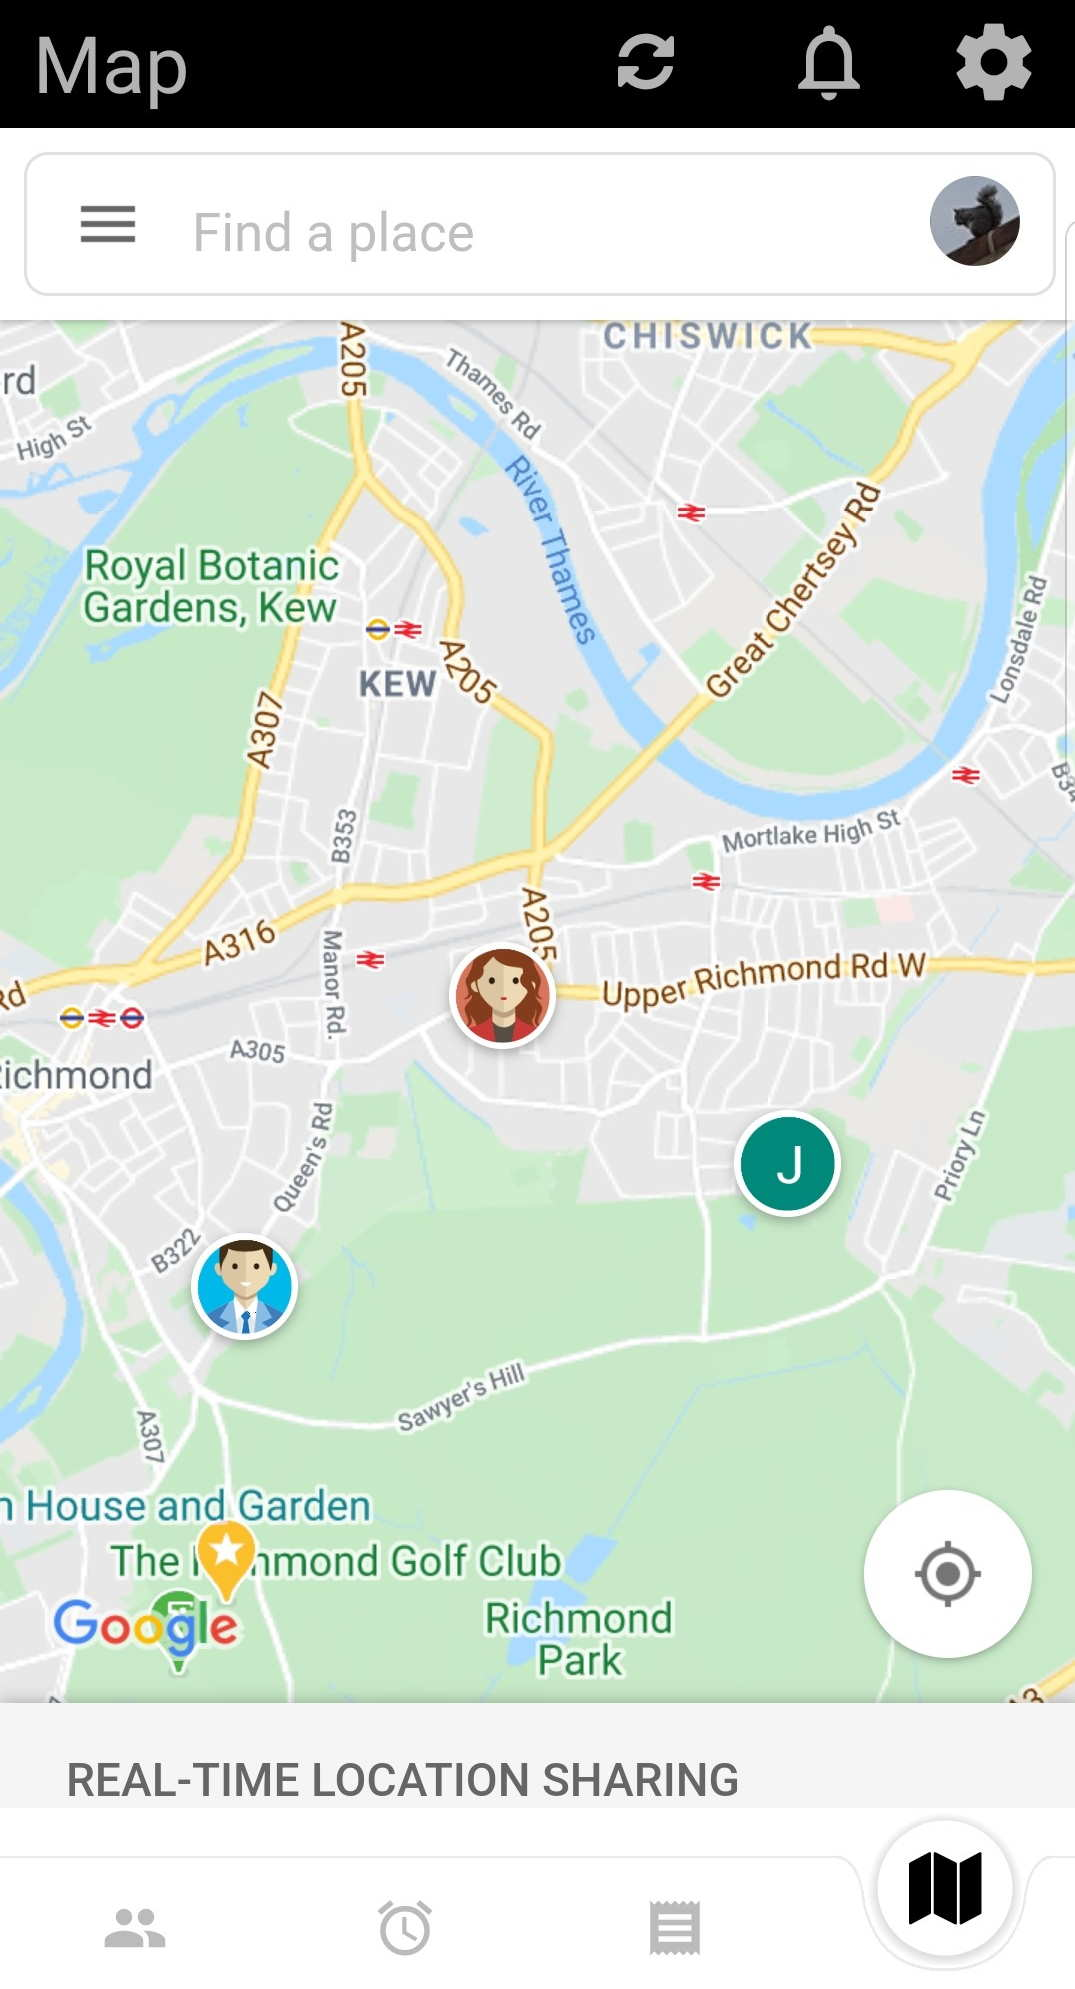
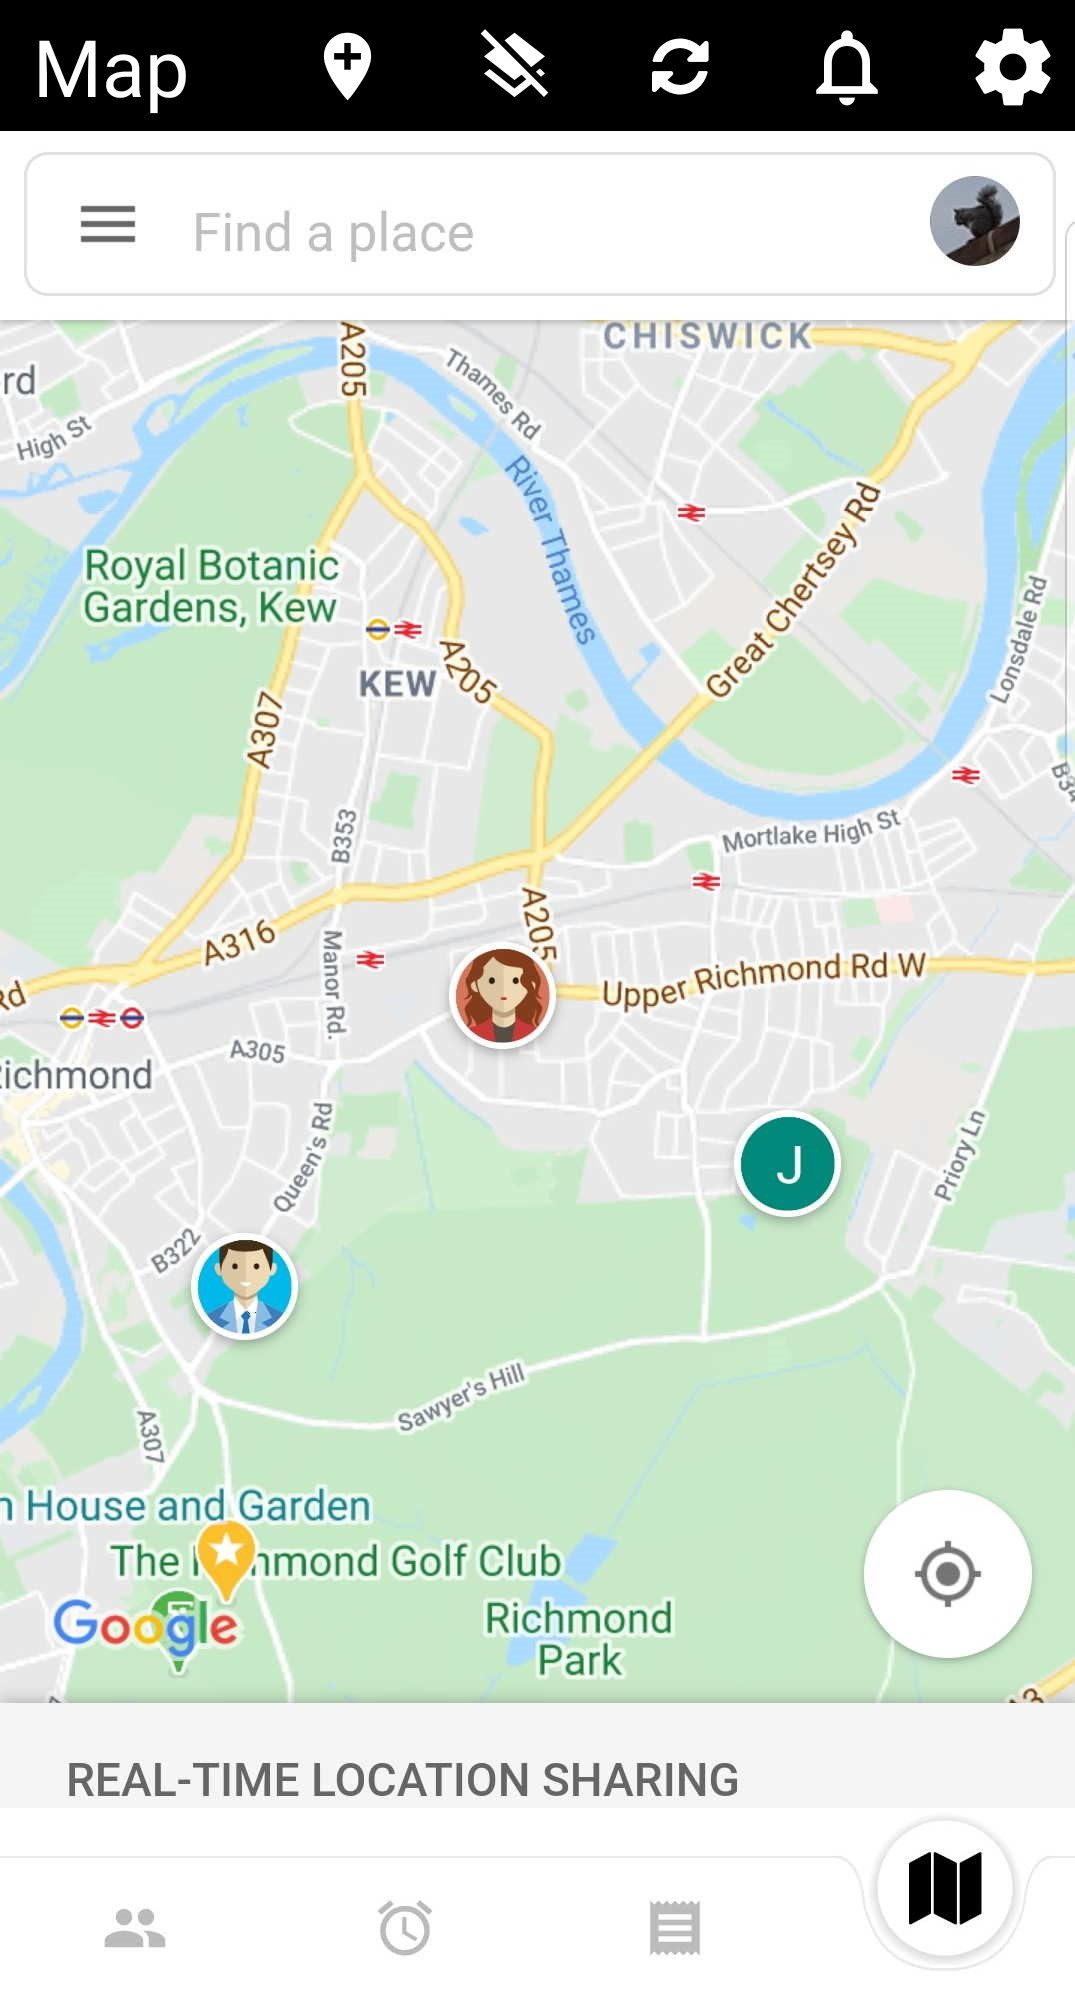
Bookmark removal

diff --git a/index.html b/index.html
@@ -37,7 +37,7 @@
 
 <img style="margin:20px 20px;border:2px solid black;width:40%" src="Screenshots/firedalerts.jpg" alt="Fired Alerts" >
 
-<img style="margin:20px 20px;border:2px solid black;width:40%" src="Screenshots/map.jpg" alt="Map Alerts" >
+<img style="margin:20px 20px;border:2px solid black;width:40%" src="Screenshots/mapinked.jpg" alt="Map Alerts" >
 
 <img style="margin:20px 20px;border:2px solid black;width:40%" src="Screenshots/wizard.jpg" alt="Wizard" >
 
@@ -48,7 +48,7 @@
 <h3>Fired Alerts</h3>
 <p>Slide left a fired alert to delete it. Tap a fired alert to view the object of the alert's location on the Map tab.</p>
 <h3>Map</h3>
-<p>A browser view of Google Maps.</p>
+<p>A browser view of Google Maps. Define locations to be used in Alerts.</p>
 
 <a id="Settings"></a>
 <h2>Settings</h2>
@@ -87,35 +87,21 @@
 <p>Family Monitor does not ask for, process or store any personal information apart from the names of the family members associated with alerts that the user creates. These alerts are only stored on the device running Family Monitor. In addition, the only network communication is to addresses (URLs) within the Google.com domain and to cyferorg.github.io when displaying this help page.</p>
 <a id="Mapssetup"></a>
 <h2>Google Maps Configuration</h2>
-<p>There are two things that need to be configured on Google Maps for Family Monitor to work effectively, both of which you may already have set up. (The following screenshots are from the Android version of the Google Maps app but the iOS version is very similar.)</p>
-<ol>
-<li>Location sharing - those family members you wish to monitor must share their locations with you. Each family member may remove the sharing of their location at any time without notifying you, though you will notice that their location is no longer being shared with you. Let us assume you wish to monitor your son's location. You can either directly ask your son to use his Google Maps app (this stage can't be done using a browser) and configure Maps to share his location with you, or you can go into the Google Maps app and send an invitation to your son asking him to share his location. Detailed instructions can be found by googling or, for example, <a href="https://support.google.com/maps/answer/7326816">here</a>.
+<p><i>Note that prior to version 1.55, the Google Maps configuration required two steps. There is now only one step since Google's Location Bookmarks are no longer used.</i></p>
+<p>Family Monitor requires Google Maps' Location Sharing to be enabled.  (The following screenshots are from the Android version of the Google Maps app but the iOS version is very similar.)</p>
+<li>Location sharing - those family members you wish to monitor must share their locations with you. Each family member may remove the sharing of their location at any time without notifying you, though you will notice that their location is no longer being shared with you. Let us assume you wish to monitor your son's location. You can either (1) directly ask your son to use his Google Maps app (this stage can't be done using a browser) to configure Maps to share his location with you, or (2) you can go into your Google Maps app and send an invitation to your son asking him to share his location. Detailed instructions can be found by googling or, for example, <a href="https://support.google.com/maps/answer/7326816">here</a>.
 <p>
 <img style="margin:20px 20px;border:2px solid black;width:40%" src="Screenshots/share1.png" alt="Shared1" >
 <img style="margin:20px 20px;border:2px solid black;width:40%" src="Screenshots/share2.png" alt="Shared2" >
 <img style="margin:20px 20px;border:2px solid black;width:40%" src="Screenshots/share3.png" alt="Shared3" >
 <img style="margin:20px 20px;border:2px solid black;width:40%" src="Screenshots/share4.png" alt="Shared4" >
 </p>
-<li>Location bookmarks - these are geographic locations created in Google Maps that are available to Family Monitor for defining alert rules, for example, "my son is more than 2km from his school". The location of the school is defined in Google Maps (either using the app or a browser) and then it's used by Family Monitor. These locations can be created either using Google Maps to save the desired locations to the Google Maps <i>Starred Places</i> list or directly within Google's <a href="https://www.google.com/bookmarks">bookmarks page</a>. For the former, within Google Maps, find the required location, long press the location, tap the name or address that pops-up, tap Save and then save to the Google Maps "Starred places" list. (More detailed instructions can be found by googling or, for example, <a href="https://support.google.com/maps/answer/3184808">here</a>). The location must be saved to the <i>Starred places</i> list for the location to show up in Family Monitor.
-<p>
-<img style="margin:20px 20px;border:2px solid black;width:40%" src="Screenshots/location1.png" alt="Location1" >
-<img style="margin:20px 20px;border:2px solid black;width:40%" src="Screenshots/location2.png" alt="Location2" >
-<img style="margin:20px 20px;border:2px solid black;width:40%" src="Screenshots/location3.png" alt="Location3" >
-</p>
-<img style="margin:20px 20px;border:2px solid black;width:70%" src="Screenshots/bookmarks.png" alt="Location Bookmarks" >
-</ol>
 <a id="FAQ"></a>
 <h2>FAQ</h2>
 <ul>
 <li>Change Google account - Tap the Logout button within Settings.
-<li>Give a location a better (more descriptive) name in the list of objects - Using a browser, go to your <a href="https://www.google.com/bookmarks">Google bookmarks page</a>, click Edit for the desired location and enter whatever you want in the Name field. 
-<a id="nolocation"/>
-<li>Red box around alert or a message about location can't be found - This is probably due to the age of the Android (unlikely to be iOS) system being used. The only option is to manually enter locations into your <a href="https://www.google.com/bookmarks">Google bookmarks page</a> with the following steps:
-<ul>
-<li>Click Add bookmark
-<li>Enter the name of the location (e.g. home or school) in the Name field
-<li>In the URL field enter: https://www.google.com/maps/@LATITUDE,LOGITUDE replacing LATITUDE and LONGITUDE with the values of the location you are defining, eg:
-<li>https://www.google.com/maps/@51.540846,-0.4257104
+<li>Red box around alert or a message about location can't be found - 
+Try recreating the location from the Map tab.
 </ul>
 </ul>
 </body>
